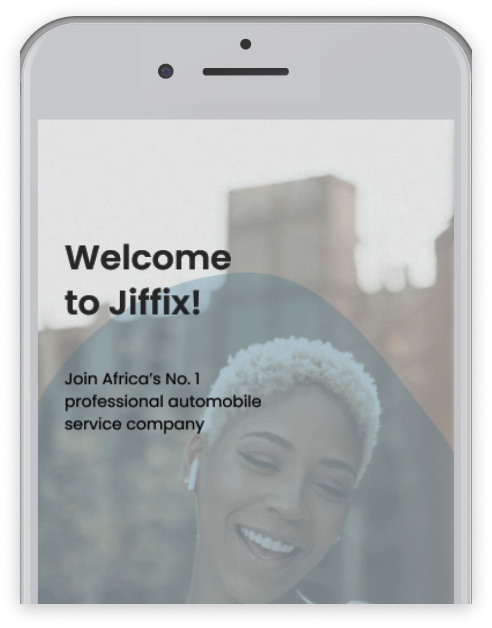
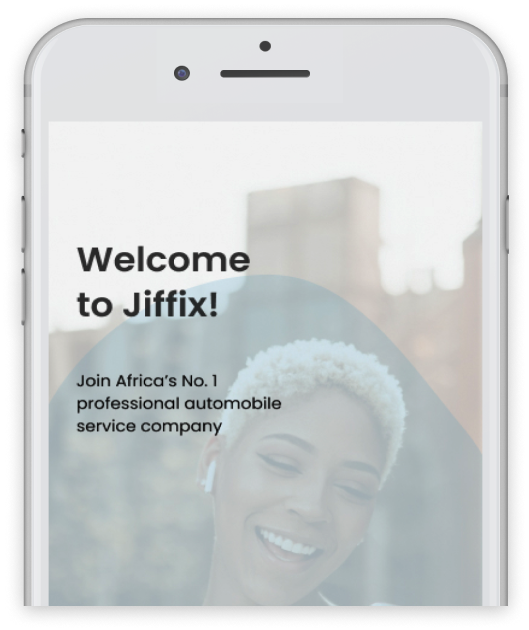
updated responsiveness

diff --git a/src/components/choose/Choose.js b/src/components/choose/Choose.js
@@ -36,7 +36,7 @@ const Choose = () => {
                     <p >This program is designed to take away your worries about identifying issues with your car (whenever they arise). You will be entitled to a number of inspections for a period of <span className='bold-text-tab-desktop'>12-months,</span>anywhere in Nigeria. This comes with a <span className='bold-text-tab-desktop'>complimentary road-side rescue. </span></p>
                     <p className='italic-text-tab'>There’s been nothing better, since agege bread!</p> 
                   </div>
-                  : activeTab ==="login"? <div className='choose-text-login'><p className='choose-text'>Need a quick service, repair or part</p></div>:
+                  : activeTab ==="login"? <div className='choose-text-login'><p className='choose-text'>Need a quick service, repair or maintenance? Our instant quote gives you real time pricing for the selected services available. There hasn't been anything better than knowing your cost upfront!</p></div>:
                   activeTab ==="soon"?<div className='choose-text-login'>
                     <p >Over 80% of our vehicle’s health over time, and its logevity is determined by our maintenance habits. This program takes over and <span className='bold-text-tab-desktop'>automates your vehicle maintenance</span> activity, and ensures your <span className='bold-text-tab-desktop'>never miss a service</span>  with our multi-modal service delivery anywhere in Nigeria. </p>
                     <p className='italic-text-tab'>This is the best thing to happen to your vehicle!</p> 

diff --git a/src/components/bookingModal/BookingModal.js b/src/components/bookingModal/BookingModal.js
@@ -7,7 +7,7 @@ import Form from 'react-bootstrap/Form';
 // COMPANIES LOGOS IMPORT AS PNG
 import ford from '../../assets/images/book-images/FORD.png'
 import lexus from '../../assets/images/book-images/LEXUS.png'
-import bmw from '../../assets/images/book-images/BMW.png'
+import bmw from '../../assets/images/book-images/bmw-white.png'
 import honda from '../../assets/images/book-images/HONDA.png'
 import toyota from '../../assets/images/book-images/TOYOTA.png'
 import white from '../../assets/images/book-images/VWHITE.png'
@@ -80,7 +80,7 @@ const BookingModal = ({ show, handleClose }) => {
                 <div className="partners-icons">
                     <img className='ford-img' width={49.64} height={20} src={ford} alt="" />
                     <img className='lexus-img' width={106.57} height={18.24} src={lexus} alt="" />
-                    <img className='bme-img' width={36} height={30} src={bmw} alt="" />
+                    <img className='bme-img' width={25} height={25} src={bmw} alt="" />
                     <img className='honda-img' width={32.43} height={18.24} src={honda} alt="" />
                     <img className='toyota-img' width={29.12} height={20.68} src={toyota} alt="" />
                     <img className='white-img' width={29.79} height={18.24} src={white} alt="" />

diff --git a/src/components/services/Services.js b/src/components/services/Services.js
@@ -17,7 +17,7 @@ const Services = () => {
                     <Col className="services-cointainer d-flex my-auto flex-column col-md-5">
                         <h5>Choose <span>Service Mode</span> </h5>
                         <p>Explore the 3 modes of service available to Jiffix  car owners and fleet operators anywhere in Nigeria to transform your vehicle management experience and save cost.</p>
-                        <button className='start-now-btn'>START NOW</button>
+                        <button className='start-now-btn'>EXPLORE OUR PLANS</button>
                     </Col>
                     <Col className='d-flex my-auto'>
                         <Col className='col-md-4 mobile active-hover'>

diff --git a/src/components/choose/Choose.css b/src/components/choose/Choose.css
@@ -400,12 +400,6 @@
     .accordian-sign-btn{
         width: 150px !important;
         margin-left: 155px !important;
-        /* margin-top: -0px !important; */
-        /* width: 100% !important;
-        height: 40px !important;
-        height: 40px !important;
-        width: 50%;
-        margin-left: 144px; */
     }
 
     .acord{
@@ -426,4 +420,17 @@
         height: 40px;
 }
 
+}
+
+
+@media(width:414px){
+    .custom-input{
+        width: 355px;
+    }
+    .accordian-btn{
+        margin-left: 170px;
+    }
+    .accordian-sign-btn{
+        margin-left: 210px !important;
+    }
 }

diff --git a/src/components/testimonial/Testimonial.js b/src/components/testimonial/Testimonial.js
@@ -10,7 +10,8 @@ const Testimonial = () => {
       <div className='testimonial-wrapper'>
        <Wrapper>
             <div className="testimonial-content">
-            <h5 className='testmonial-title'>Why our customers <span>love Jiffix “</span></h5>
+            <h5 className='testmonial-title'>Why our customers <span>love Jiffix</span></h5>
+            <h5 className='desktop-quote'>“</h5>
             <TestmonialCarousel/>
             <button className="schedule-service-btn">SCHEDULE A SERVICE</button>
             </div>

diff --git a/src/components/slider/Slider.js b/src/components/slider/Slider.js
@@ -22,7 +22,7 @@ const Slider = () => {
       />
       <div className="carousel-content">
         <h3>Just Jiffix It.</h3>
-        <p>Join Jiffix car owner’s and fleet operators and begin your journey to quality, convenience, and affordable vehicle  maintenance today.</p>
+        <p>Join Jiffix car owner’s and fleet operators and begin your journey to quality, convenient, and affordable vehicle  maintenance today.</p>
 
         <button className='check-vehicle-health-btn'>CHECK OUT OUR PRICING!</button>
 

diff --git a/src/components/testimonial/Testimonial.css b/src/components/testimonial/Testimonial.css
@@ -9,9 +9,16 @@
     margin-top: 80px;
 }
 
+.desktop-quote{
+    font-size: 40px;
+    font-weight: 700;
+    color: #FBA91A;
+    margin-top: -38px;
+}
+
 .testmonial-title {
     font-size: 40px;
-    width: 400px;
+    width: 380px;
     color: #fff;
     font-weight: 700;
     line-height: 50px;

diff --git a/src/components/phone/Phone.css b/src/components/phone/Phone.css
@@ -178,3 +178,11 @@
         color: #2F2E41;
     }
 }
+
+@media (width: 414px){
+    .right-container-phone{
+        display: block;
+        margin-right: 66px !important;
+    }
+}
+
